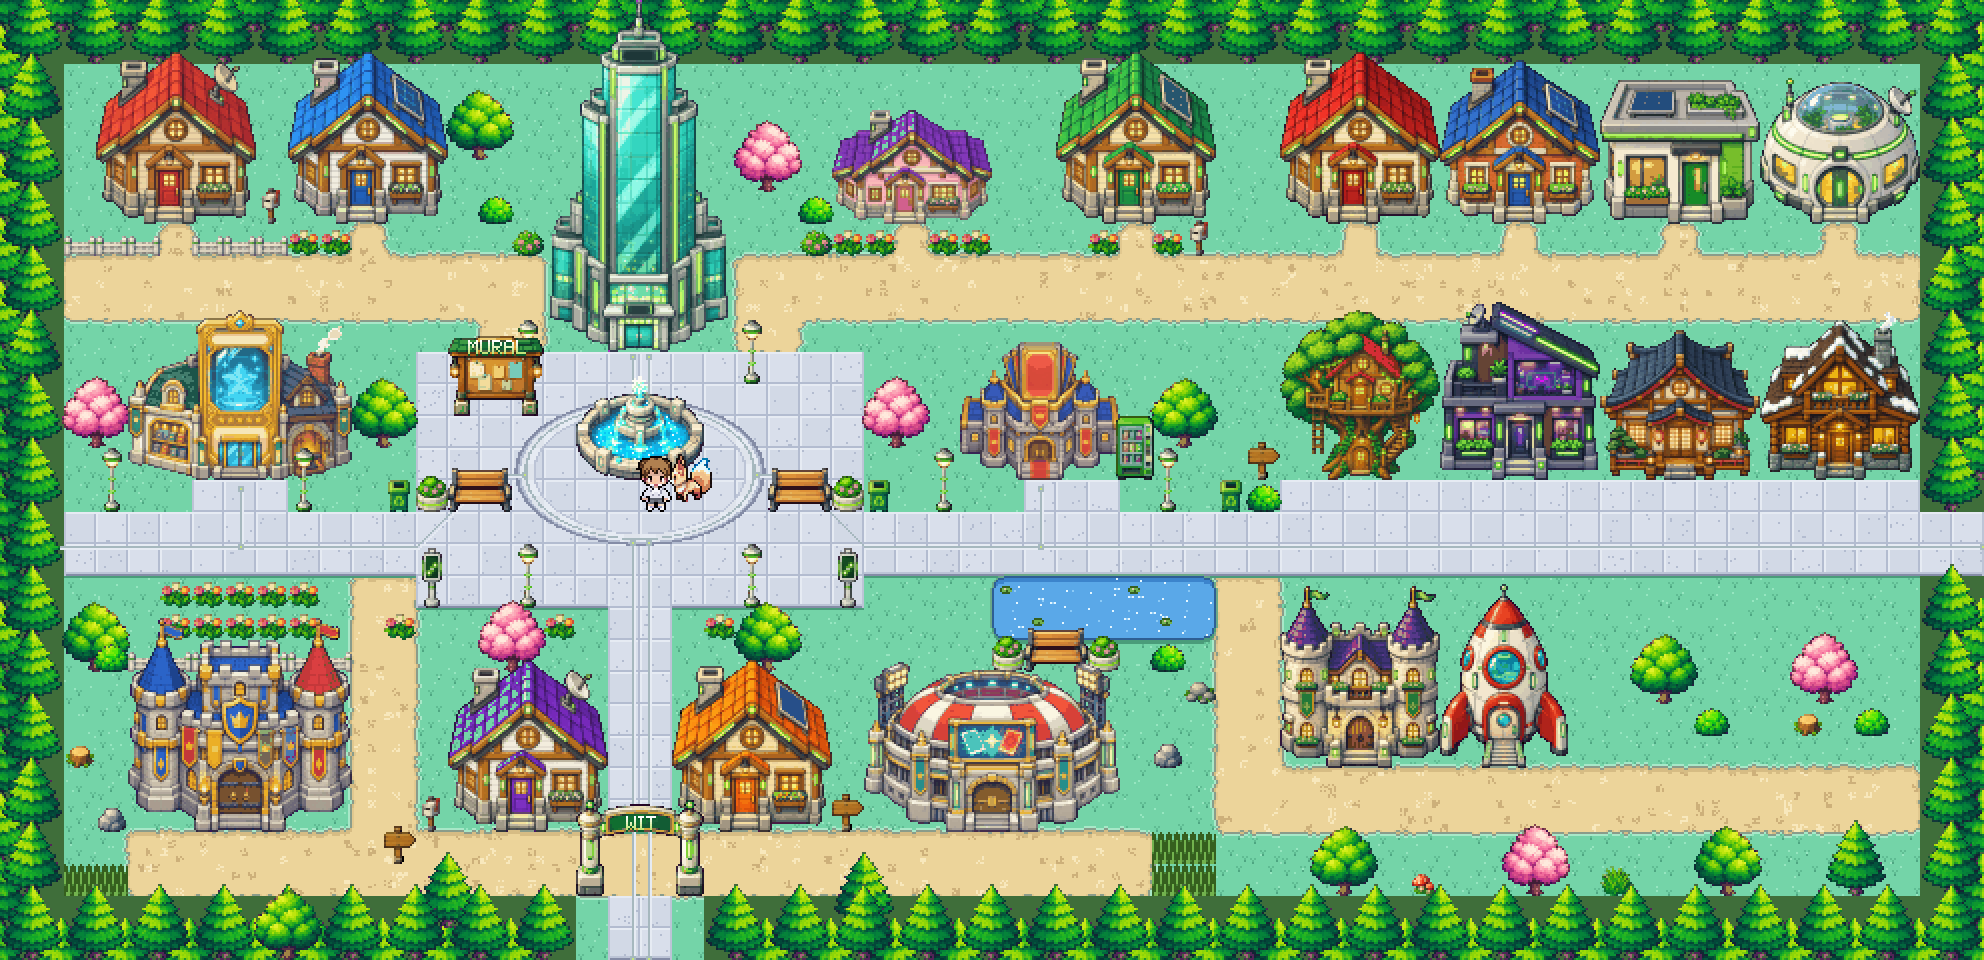
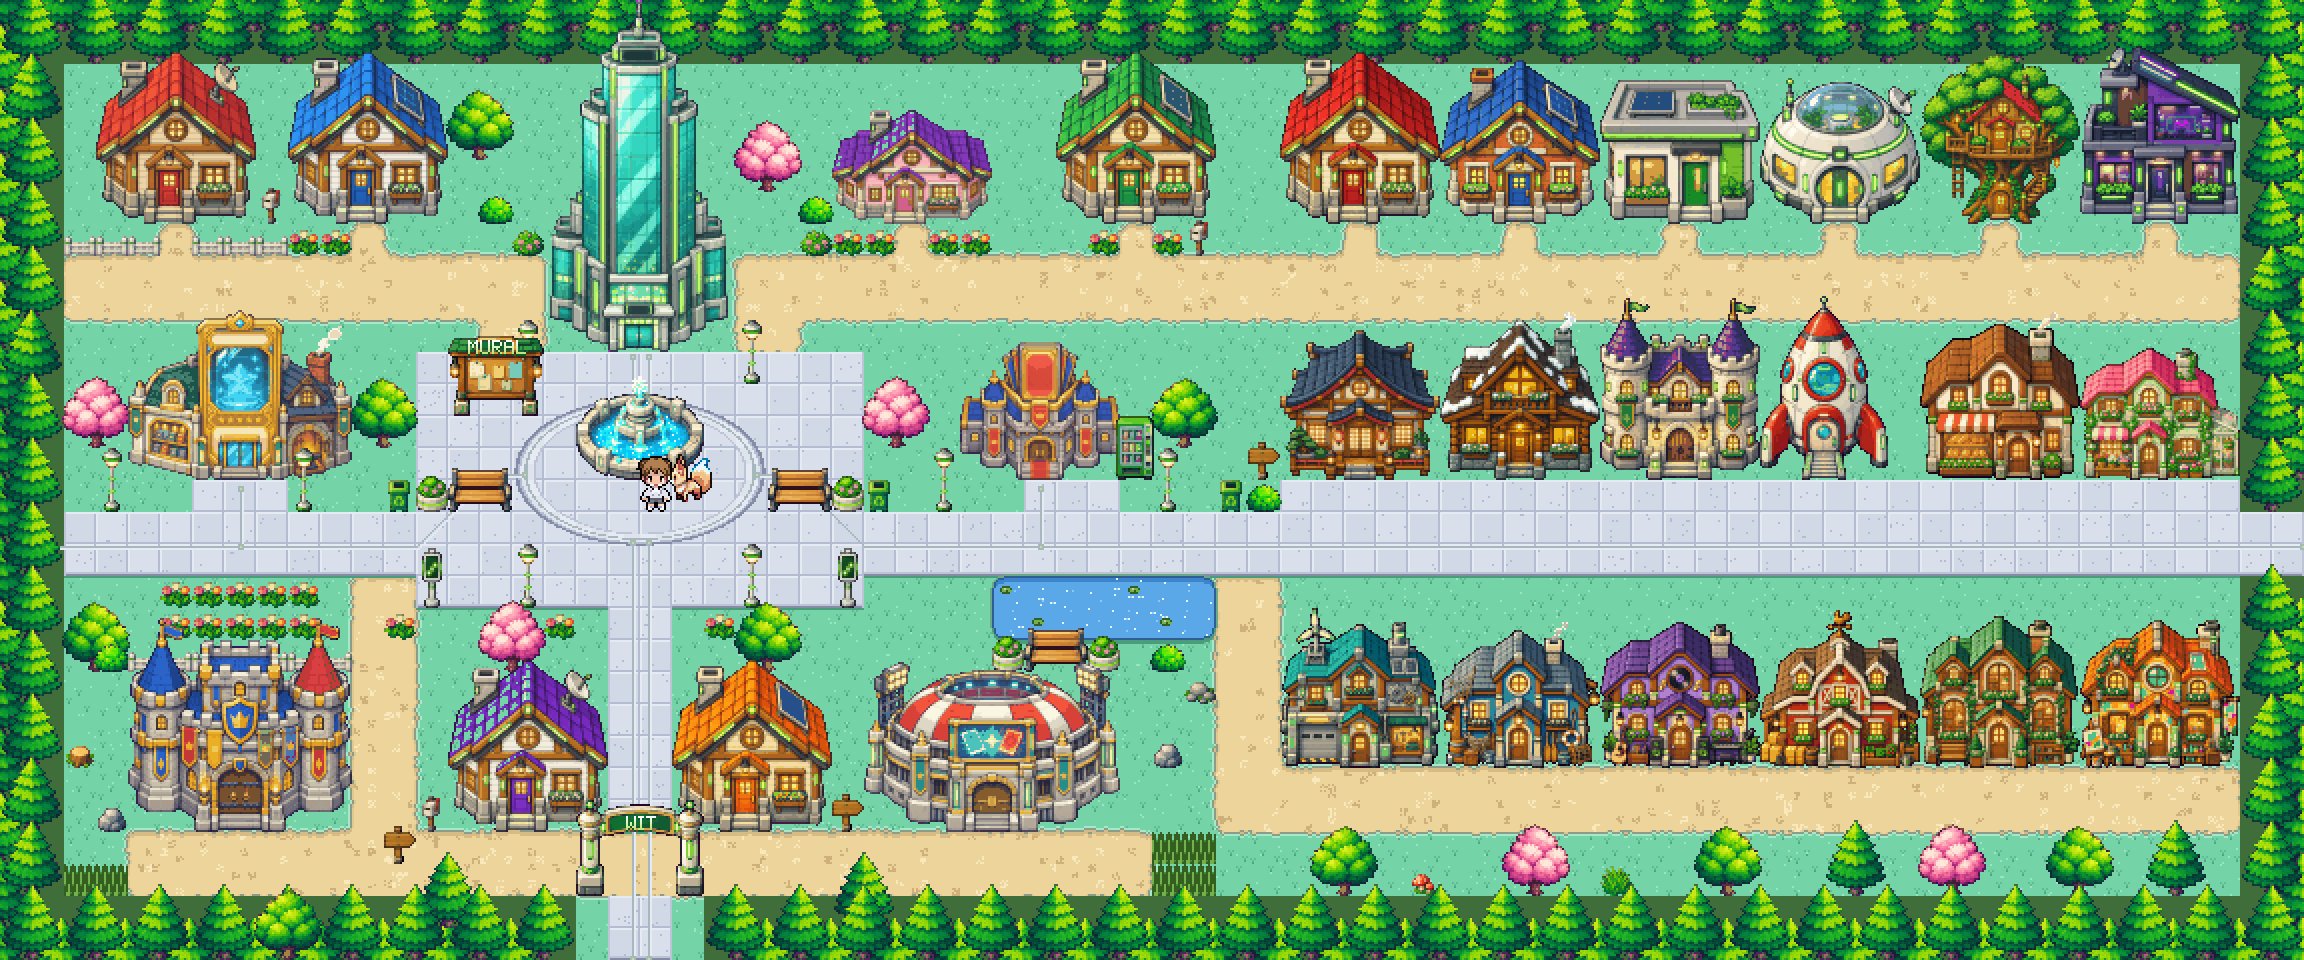
Bairro Novo com as 8 casas de moradores (padaria, floricultura, inventor, pescador, músico, fazendeiro, bibliotecária, artista)
Claude-Session: https://claude.ai/code/session_01LZMKHmQCZ8JMkWs3aTG8Vs

diff --git a/src/game/world/town.ts b/src/game/world/town.ts
@@ -9,13 +9,13 @@ import * as P from './props';
 import * as T from './props-tech';
 import { findPlaque, lampNight, padTo, waterFrames, type Sprite, type WorldAssets } from './assets';
 import { drawText, textWidth } from './font';
-import { HOUSE_MODELS } from './content';
+import { HOUSE_MODELS, NPC_HOUSES } from './content';
 import { LED as LEDC, WIT } from './palette';
 import { houseHG } from './house-hg';
 import { arenaHG, towerHG } from './buildings-hg';
 import { cardWorkshop, guildCastle, packShop } from './landmarks';
 
-export const MAP_W = 62;
+export const MAP_W = 72;
 export const MAP_H = 30;
 
 export interface Placed {
@@ -177,8 +177,10 @@ export function buildTown(assets?: WorldAssets): Town {
   fill('trilha', 38, 24, MAP_W - 40, 2);       // rua de baixo
   const roofs = ['vermelho', 'azul', 'verde', 'roxo', 'laranja'] as const;
   const bairro: [number, number, number][] = [];
-  HOUSE_MODELS.forEach((m, i) => {
-    const row = Math.floor(i / 4), col = i % 4;
+  // 6 casas por fileira: primeiro os modelos (iniciais e à venda), depois as dos moradores
+  const lotes: { id: string; sprite: string; title: string; tilesW?: number }[] = [...HOUSE_MODELS, ...NPC_HOUSES];
+  lotes.forEach((m, i) => {
+    const row = Math.floor(i / 6), col = i % 6;
     const tx = 40 + col * 5, ty = [2, 10, 19][row];
     const tw = m.tilesW ?? 5;
     house(m.sprite, m.id, m.title, tx, ty, { roof: roofs[i % roofs.length], wood: i % 2 ? 'branco' : 'bege', led: 'green' }, tw);
@@ -225,12 +227,7 @@ export function buildTown(assets?: WorldAssets): Town {
   // bairro: árvores entre as casas e nos terrenos ainda vazios
   treeAt('redonda', 41, 26, 31); treeAt('florida', 47, 26, 32); treeAt('redonda', 53, 26, 33); treeAt('pinheiro', 57, 26, 34);
   treeAt('arbusto', 39, 15, 35);
-  const livres = HOUSE_MODELS.length;
-  for (let k = livres; k < 12; k++) {
-    const tx = 40 + (k % 4) * 5, ty = [2, 10, 19][Math.floor(k / 4)];
-    treeAt(k % 2 ? 'florida' : 'redonda', tx + 1, ty + 1, 40 + k);
-    treeAt('arbusto', tx + 3, ty + 3, 50 + k);
-  }
+  treeAt('florida', 60, 26, 36); treeAt('redonda', 64, 26, 37); treeAt('pinheiro', 67, 26, 38);
 
   // ── praça ──
   putLit('fonte', A.fonte ? waterFrames(A.fonte) : [0, 1, 2].map(f => T.fountainLit(f)), 18, 13, 4, 2, true, 180);

diff --git a/src/game/world/content.ts b/src/game/world/content.ts
@@ -25,7 +25,21 @@ export const HOUSE_MODELS: { id: string; sprite: string; title: string; inicial:
   { id: 'modelo-foguete', sprite: 'casa-foguete', title: 'Casa Foguete', inicial: false, tilesW: 4 },
 ];
 
+/** Casas dos moradores do Bairro Novo (sprites em public/game/world). */
+export const NPC_HOUSES: { id: string; sprite: string; title: string }[] = [
+  { id: 'npc-padaria', sprite: 'casa-padaria', title: 'Padaria da Dona Rosa' },
+  { id: 'npc-floricultura', sprite: 'casa-floricultura', title: 'Floricultura' },
+  { id: 'npc-inventor', sprite: 'casa-inventor', title: 'Oficina do Inventor' },
+  { id: 'npc-pescador', sprite: 'casa-pescador', title: 'Casa do Pescador' },
+  { id: 'npc-musico', sprite: 'casa-musico', title: 'Casa do Músico' },
+  { id: 'npc-fazendeiro', sprite: 'casa-fazendeiro', title: 'Casa do Fazendeiro' },
+  { id: 'npc-bibliotecaria', sprite: 'casa-bibliotecaria', title: 'Casa da Bibliotecária' },
+  { id: 'npc-artista', sprite: 'casa-artista', title: 'Ateliê da Artista' },
+];
+
 export function houseInfo(id: string, name: string): { title: string; text: string } {
+  const npc = NPC_HOUSES.find(h => h.id === id);
+  if (npc) return { title: npc.title, text: 'Casa de um morador do Bairro Novo. No futuro: entrar, conversar e ganhar missões.' };
   const m = HOUSE_MODELS.find(h => h.id === id);
   if (!m) return { title: name, text: HOUSE_INFO.text };
   return m.inicial

diff --git a/scripts/arte/importar-gpt.py b/scripts/arte/importar-gpt.py
@@ -46,6 +46,14 @@ SINGLE = {
     'casa-montanha': ('casa-montanha', {'w': 80}),
     'casa-castelo': ('casa-castelo', {'w': 80}),
     'casa-foguete': ('casa-foguete', {'w': 64}),
+    'casa-padaria': ('casa-padaria', {'w': 80}),
+    'casa-floricultura': ('casa-floricultura', {'w': 80}),
+    'casa-inventor': ('casa-inventor', {'w': 80}),
+    'casa-pescador': ('casa-pescador', {'w': 80}),
+    'casa-musico': ('casa-musico', {'w': 80}),
+    'casa-fazendeiro': ('casa-fazendeiro', {'w': 80}),
+    'casa-bibliotecaria': ('casa-bibliotecaria', {'w': 80}),
+    'casa-artista': ('casa-artista', {'w': 80}),
 }
 SHEETS = {
     'arvores': [('pinheiro', {'w': 30}), ('arvore-redonda', {'w': 34}), ('cerejeira', {'w': 34}), ('arbusto', {'w': 18})],
